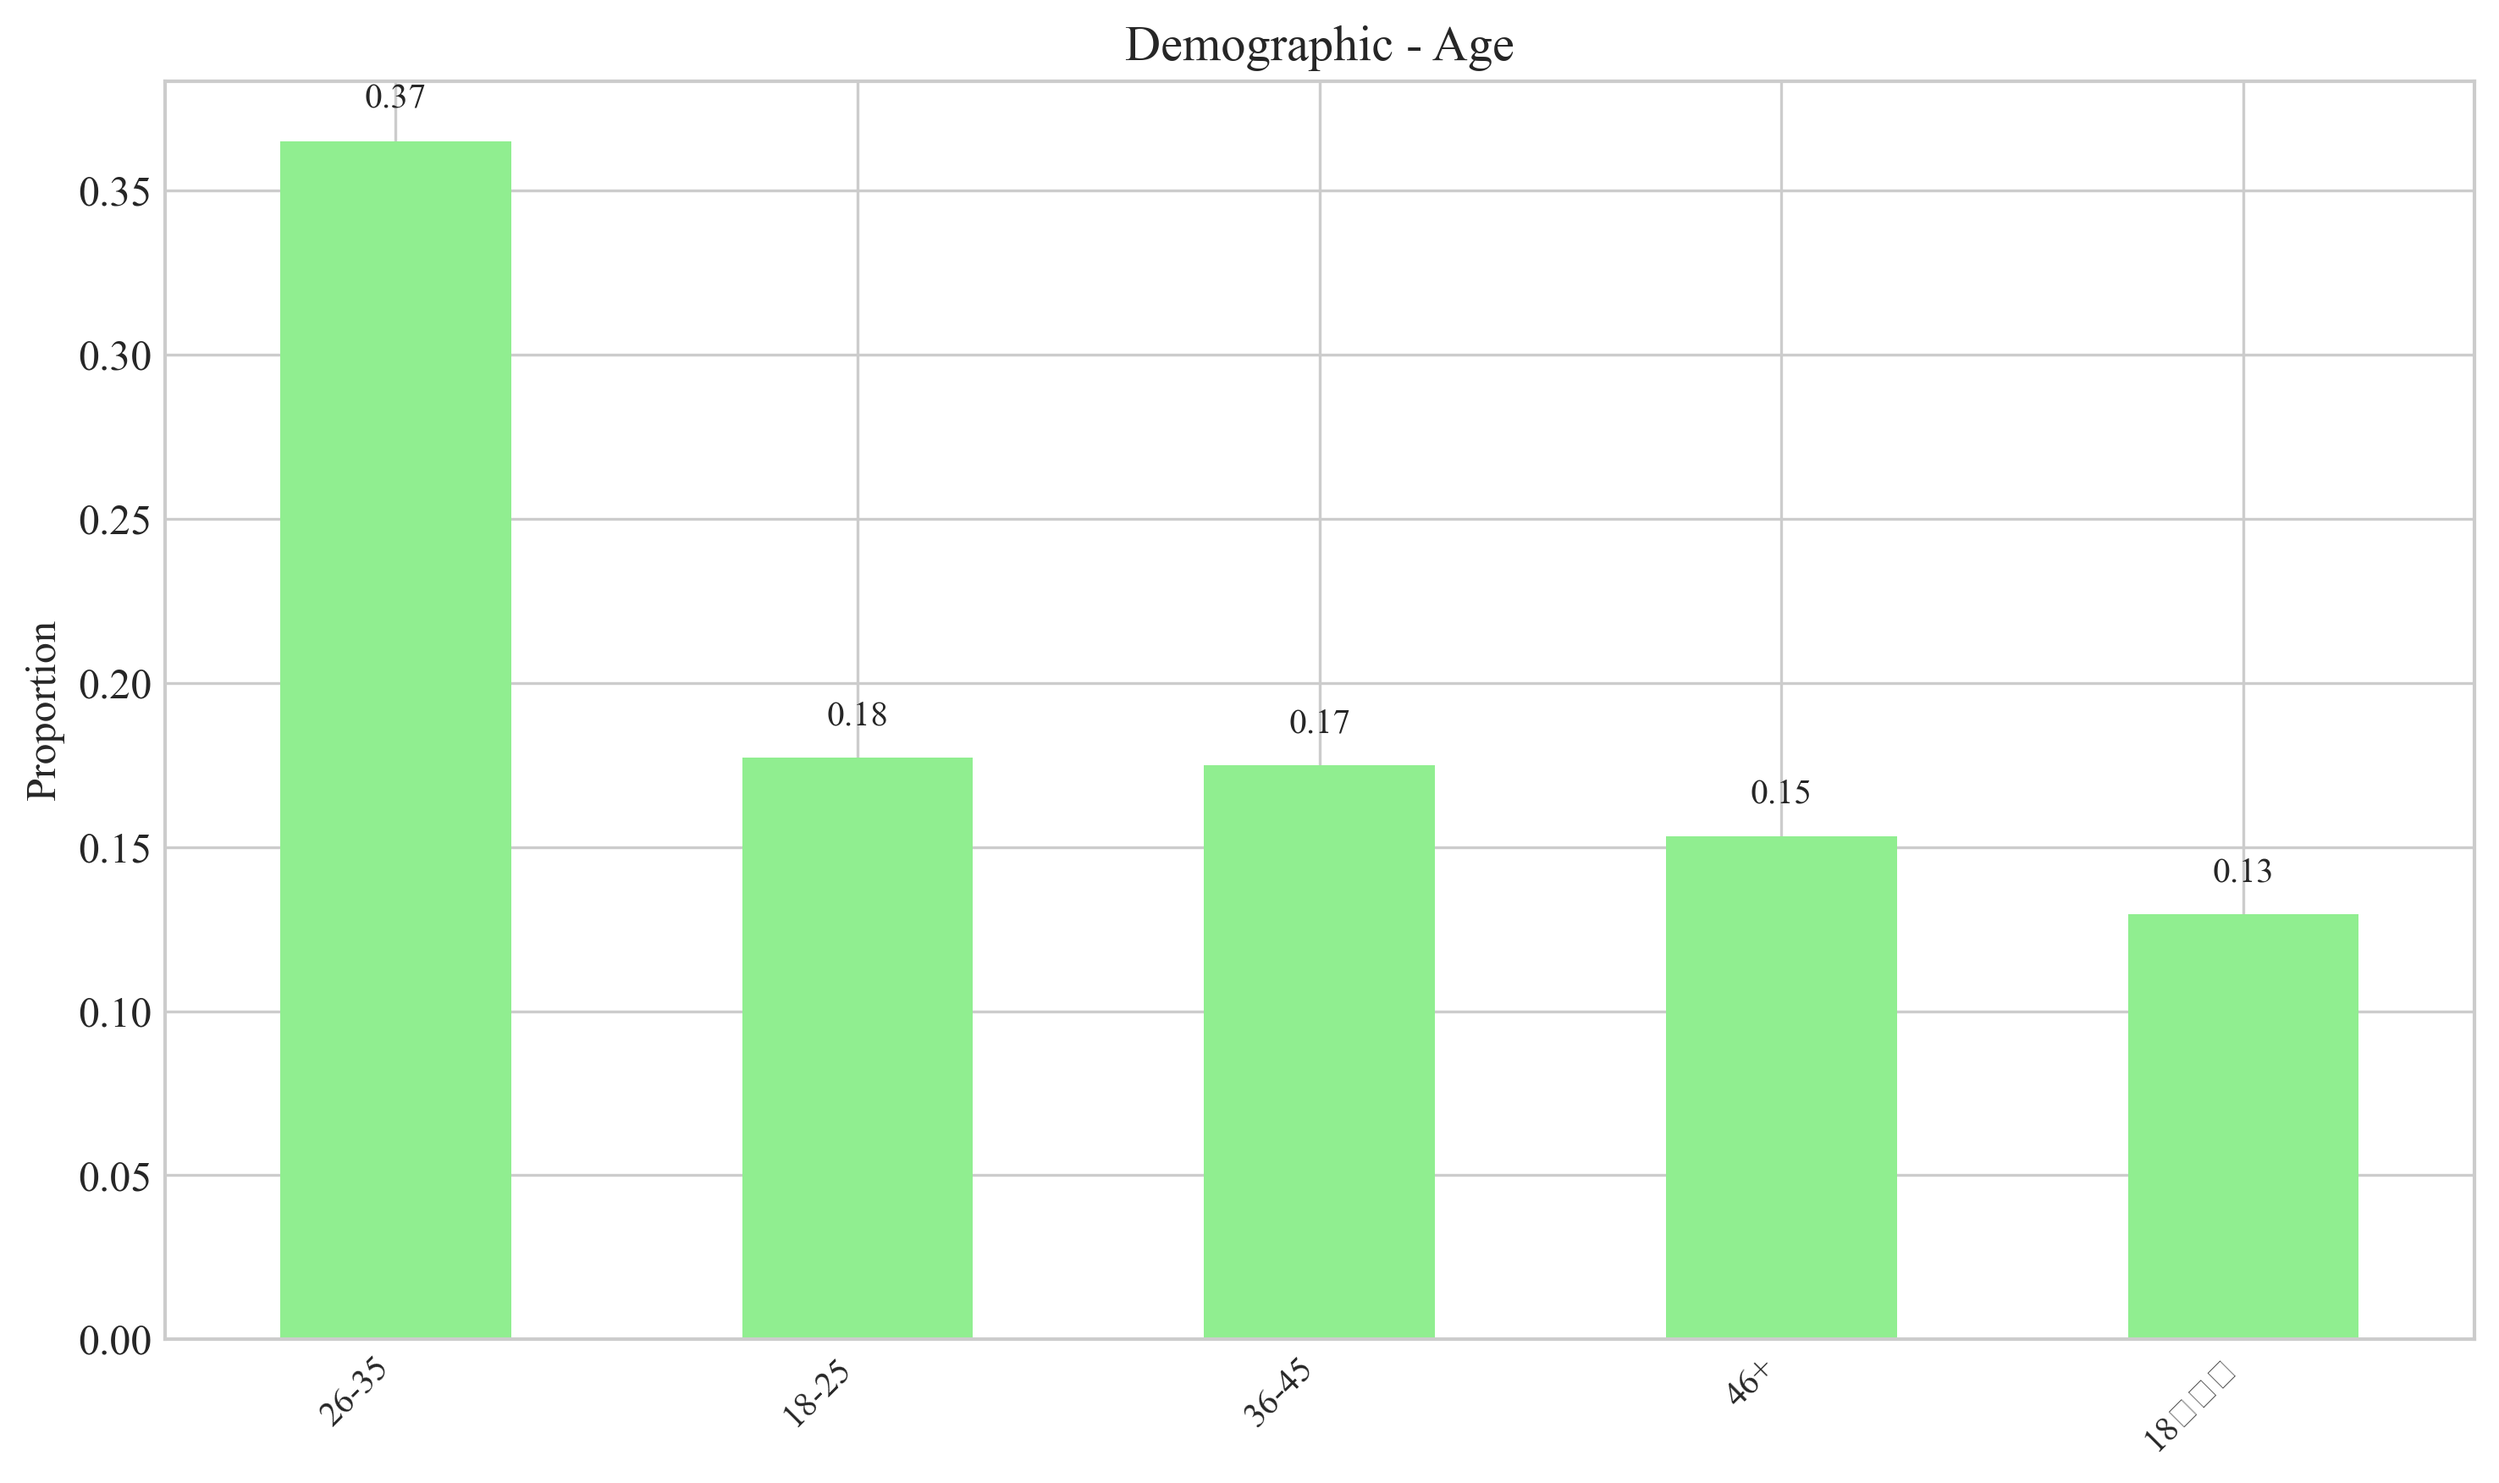
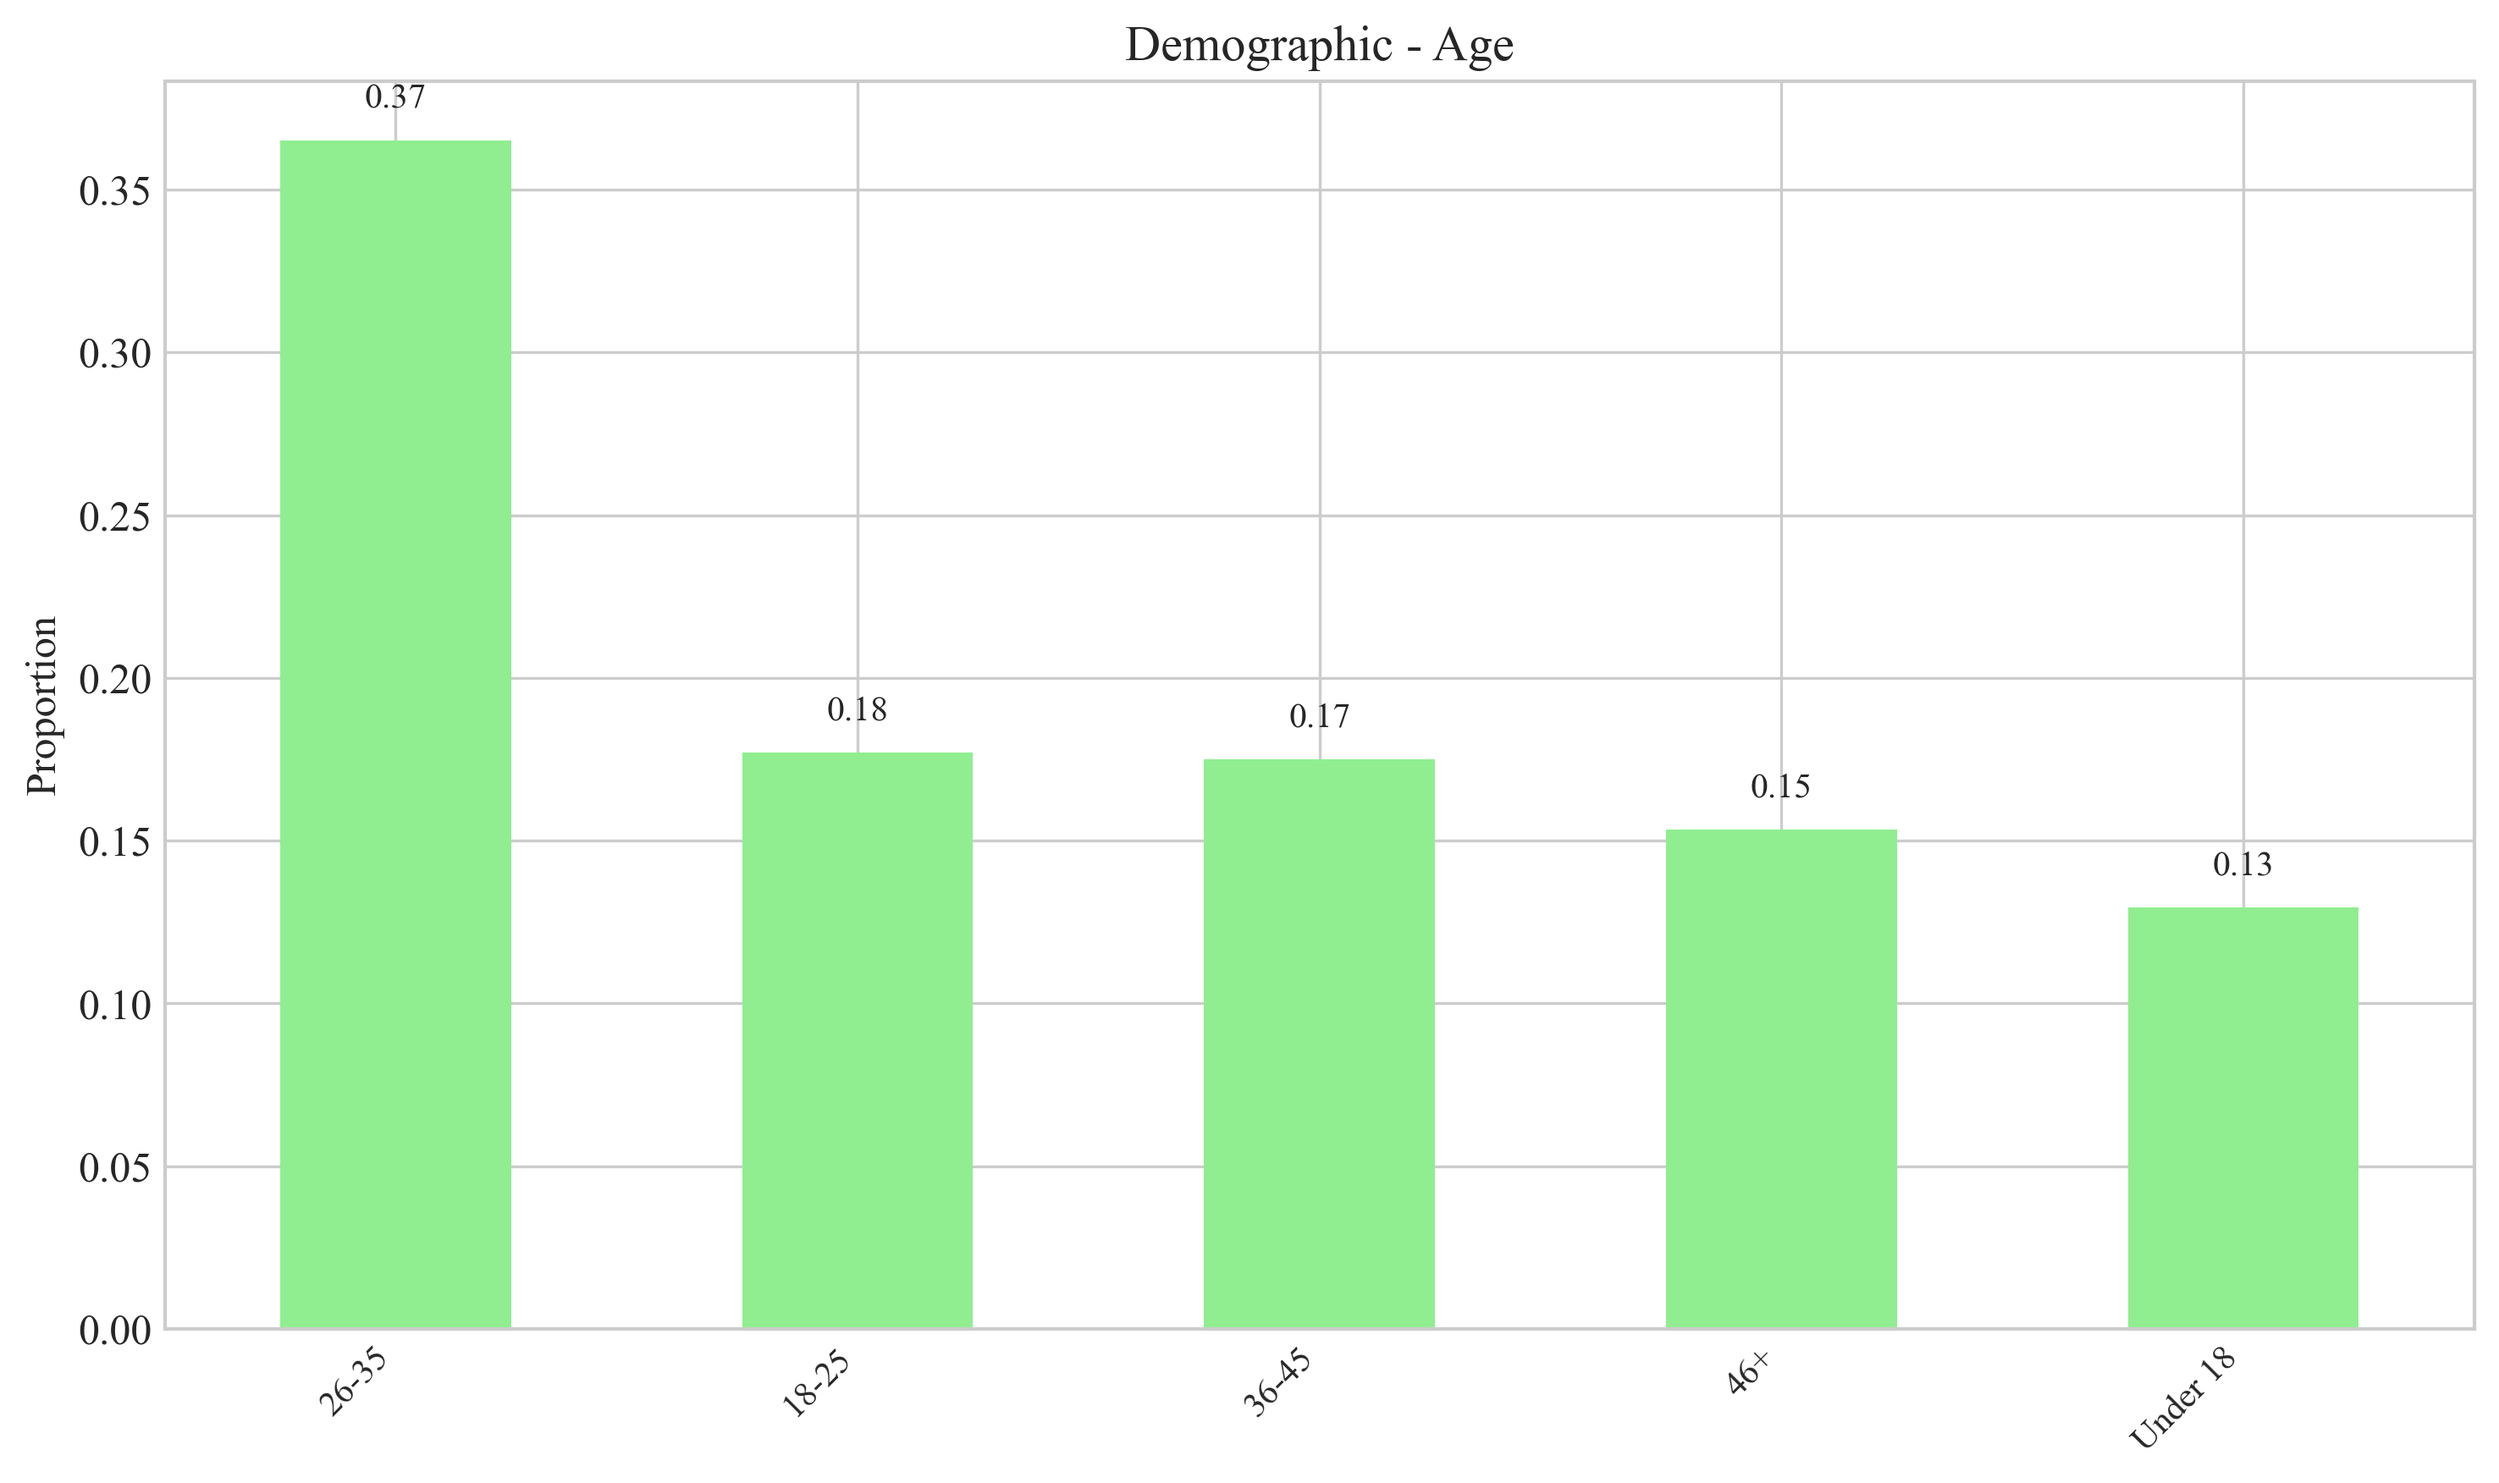
Fixed label display issues by updating translation dictionary with missing Chinese characters

diff --git a/thesis_enhancements.py b/thesis_enhancements.py
@@ -18,6 +18,144 @@ if not os.path.exists('thesis_plots'):
 ARCTERYX_COLORS = ["#2E6E91", "#5CA2C3", "#9CCFE8", "#F0C53F", "#E58723", "#E63946", "#8D99AE", "#57A773"]
 sns.set_palette(ARCTERYX_COLORS)
 
+def get_translated_label(chinese_label):
+    """Create simplified English labels for Chinese categories"""
+    translations = {
+        # Brand awareness (sense)
+        '非常了解': 'Very Familiar',
+        '略有了解': 'Somewhat Familiar',
+        '不太了解': 'Not Very Familiar',
+        '完全不了解': 'Not Familiar At All',
+        
+        # Attraction (interest)
+        '非常吸引': 'Very Attractive',
+        '比较吸引': 'Fairly Attractive',
+        '一般': 'Neutral',
+        '不太吸引': 'Not Very Attractive',
+        '完全不吸引': 'Not Attractive At All',
+        
+        # Interaction (communication)
+        '经常互动(点赞、评论、分享等)': 'Frequent Interaction',
+        '偶尔互动': 'Occasional Interaction',
+        '很少互动': 'Rare Interaction',
+        '从未互动': 'No Interaction',
+        
+        # Interaction types
+        '点赞': 'Like',
+        '评论': 'Comment',
+        '分享到个人社交圈': 'Share',
+        '参与话题活动': 'Topic Activities',
+        '私信交流': 'Private Messages',
+        '观看直播': 'Watch Livestreams',
+        '其他': 'Other',
+        '无': 'None',
+        
+        # Purchase (action)
+        '是': 'Yes',
+        '否': 'No',
+        
+        # Satisfaction (share)
+        '非常满意': 'Very Satisfied',
+        '比较满意': 'Fairly Satisfied',
+        '一般': 'Neutral',
+        '不太满意': 'Not Very Satisfied',
+        '很不满意': 'Not Satisfied At All',
+        '非常不满意': 'Not Very Satisfied',
+        
+        # Improvements needed
+        '内容丰富度': 'Content Richness',
+        '与用户互动性': 'User Interaction',
+        '创意和设计感': 'Creativity & Design',
+        '信息实用性': 'Practical Information',
+        '发布频率': 'Posting Frequency',
+        '客户服务／售后服务': 'Customer Service',
+        '其他建议': 'Other Suggestions',
+        '无需改进': 'No Improvement Needed',
+        '其他': 'Other',
+        
+        # Demographics - Gender
+        '男': 'Male',
+        '女': 'Female',
+        
+        # Demographics - Age
+        '18-25岁': '18-25',
+        '26-35岁': '26-35',
+        '36-45岁': '36-45',
+        '46岁及以上': '46+',
+        '18岁以下': 'Under 18',
+        
+        # Demographics - Occupation
+        '政府机关工作人员': 'Gov. Employee',
+        '企业职员': 'Corporate Employee',
+        '自由职业者': 'Freelancer',
+        '学生': 'Student',
+        '其他': 'Other',
+        
+        # Demographics - Income
+        '3000元以下': '<3000 RMB',
+        '3000-8000元': '3000-8000 RMB',
+        '8000-15000元': '8000-15000 RMB',
+        '15000元以上': '>15000 RMB',
+        
+        # Demographics - Social Media Usage
+        '少于1小时': '<1 Hour',
+        '1-3小时': '1-3 Hours',
+        '3-5小时': '3-5 Hours',
+        '5小时以上': '>5 Hours',
+        
+        # Brand contact channels 
+        '微信公众号': 'WeChat Official Account',
+        '微博': 'Weibo',
+        '小红书': 'Xiaohongshu',
+        '抖音/快手': 'TikTok/Kuaishou',
+        '品牌官网': 'Brand Website',
+        '朋友推荐': 'Friend Recommendation',
+        '线下店铺': 'Offline Store',
+        '社交媒体广告': 'Social Media Ads',
+        '第三方平台': 'Third-party Platform',
+        'bilibili': 'Bilibili',
+        '得物': 'Dewu',
+        
+        # Brand impression
+        '高端户外品牌': 'High-end Outdoor Brand',
+        '专业性强': 'Professional',
+        '价格较高': 'High Price',
+        '环保可持续': 'Eco-friendly',
+        '产品设计时尚': 'Stylish Design',
+        '广告／宣传设计时尚': 'Stylish Advertising',
+        '普通品牌': 'Ordinary Brand',
+        '装逼': 'Show-off Brand',
+
+        # Brand understanding increase
+        '很多': 'Significant Increase',
+        '一些': 'Some Increase',
+        '较少': 'Little Increase',
+        '完全没有': 'No Increase',
+        
+        # Purchase channels
+        '官方电商平台': 'Official E-commerce',
+        '第三方电商平台（如天猫、京东）': 'Third-party E-commerce',
+        '线下专卖店': 'Offline Store',
+        '朋友代购': 'Friend Purchase',
+        '社交媒体平台链接／小程序': 'Social Media Link',
+        
+        # Barriers to purchase
+        '价格过高': 'High Price',
+        '不需要相关产品': 'No Need',
+        '产品信息不够清楚': 'Unclear Product Info',
+        '品牌吸引力不足': 'Low Brand Appeal',
+        '购买流程不便捷': 'Inconvenient Purchase Process',
+        '推广较少': 'Limited Promotion',
+        
+        # Miscellaneous 
+        '跳过': 'Skipped',
+        '(空)': 'Empty',
+        '空': 'Empty'
+    }
+    
+    # Return the translation if available, otherwise return the original
+    return translations.get(chinese_label, chinese_label)
+
 def set_thesis_style():
     """Set up a professional style for thesis-quality plots"""
     plt.style.use('seaborn-v0_8-whitegrid')

diff --git a/sicas_analysis.py b/sicas_analysis.py
@@ -33,6 +33,16 @@ def get_translated_label(chinese_label):
         '很少互动': 'Rare Interaction',
         '从未互动': 'No Interaction',
         
+        # Interaction types
+        '点赞': 'Like',
+        '评论': 'Comment',
+        '分享到个人社交圈': 'Share',
+        '参与话题活动': 'Topic Activities',
+        '私信交流': 'Private Messages',
+        '观看直播': 'Watch Livestreams',
+        '其他': 'Other',
+        '无': 'None',
+        
         # Purchase (action)
         '是': 'Yes',
         '否': 'No',
@@ -43,7 +53,18 @@ def get_translated_label(chinese_label):
         '一般': 'Neutral',
         '不太满意': 'Not Very Satisfied',
         '很不满意': 'Not Satisfied At All',
-        '非常不满意': 'Not Satisfied At All',
+        '非常不满意': 'Not Very Satisfied',
+        
+        # Improvements needed
+        '内容丰富度': 'Content Richness',
+        '与用户互动性': 'User Interaction',
+        '创意和设计感': 'Creativity & Design',
+        '信息实用性': 'Practical Information',
+        '发布频率': 'Posting Frequency',
+        '客户服务／售后服务': 'Customer Service',
+        '其他建议': 'Other Suggestions',
+        '无需改进': 'No Improvement Needed',
+        '其他': 'Other',
         
         # Demographics - Gender
         '男': 'Male',
@@ -75,13 +96,34 @@ def get_translated_label(chinese_label):
         '3-5小时': '3-5 Hours',
         '5小时以上': '>5 Hours',
         
-        # Interaction types
-        '点赞': 'Like',
-        '评论': 'Comment',
-        '分享到个人社交圈': 'Share',
-        '参与话题活动': 'Topic Activities',
-        '私信交流': 'Private Messages',
-        '观看直播': 'Watch Livestreams',
+        # Brand contact channels 
+        '微信公众号': 'WeChat Official Account',
+        '微博': 'Weibo',
+        '小红书': 'Xiaohongshu',
+        '抖音/快手': 'TikTok/Kuaishou',
+        '品牌官网': 'Brand Website',
+        '朋友推荐': 'Friend Recommendation',
+        '线下店铺': 'Offline Store',
+        '社交媒体广告': 'Social Media Ads',
+        '第三方平台': 'Third-party Platform',
+        'bilibili': 'Bilibili',
+        '得物': 'Dewu',
+        
+        # Brand impression
+        '高端户外品牌': 'High-end Outdoor Brand',
+        '专业性强': 'Professional',
+        '价格较高': 'High Price',
+        '环保可持续': 'Eco-friendly',
+        '产品设计时尚': 'Stylish Design',
+        '广告／宣传设计时尚': 'Stylish Advertising',
+        '普通品牌': 'Ordinary Brand',
+        '装逼': 'Show-off Brand',
+
+        # Brand understanding increase
+        '很多': 'Significant Increase',
+        '一些': 'Some Increase',
+        '较少': 'Little Increase',
+        '完全没有': 'No Increase',
         
         # Purchase channels
         '官方电商平台': 'Official E-commerce',
@@ -95,14 +137,13 @@ def get_translated_label(chinese_label):
         '不需要相关产品': 'No Need',
         '产品信息不够清楚': 'Unclear Product Info',
         '品牌吸引力不足': 'Low Brand Appeal',
+        '购买流程不便捷': 'Inconvenient Purchase Process',
+        '推广较少': 'Limited Promotion',
         
-        # Improvement areas
-        '内容丰富度': 'Content Richness',
-        '与用户互动性': 'User Interaction',
-        '创意和设计感': 'Creativity & Design',
-        '信息实用性': 'Practical Information',
-        '发布频率': 'Posting Frequency',
-        '客户服务／售后服务': 'Customer Service'
+        # Miscellaneous 
+        '跳过': 'Skipped',
+        '(空)': 'Empty',
+        '空': 'Empty'
     }
     
     # Return the translation if available, otherwise return the original
